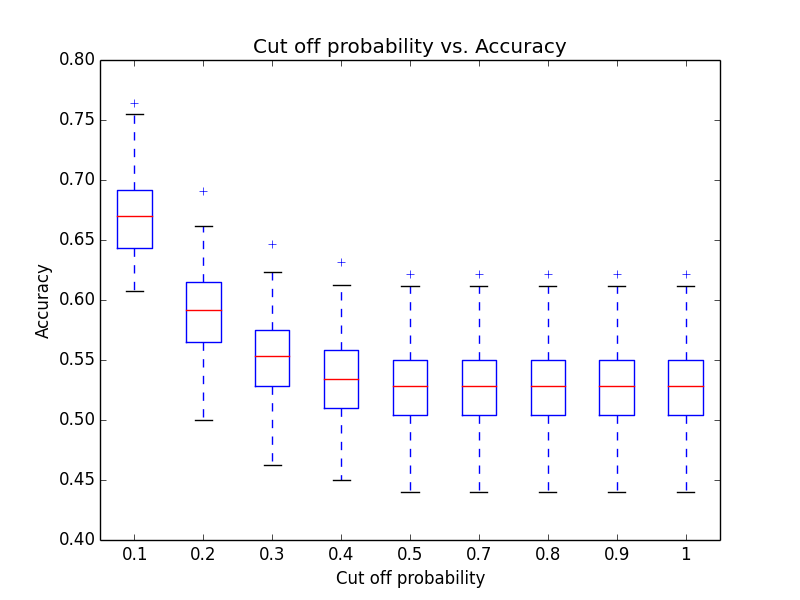
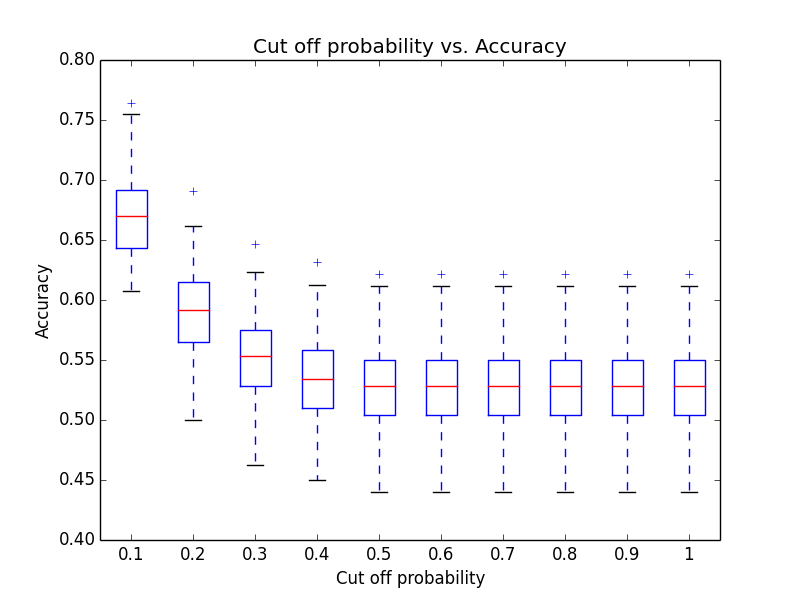
add customized look forward sequence len

diff --git a/accuracy/visualization/plots.py b/accuracy/visualization/plots.py
@@ -76,15 +76,15 @@ def runtime_plot(times, files_list_threshold, output_file_name, x_axis_tick_labe
     plt.title(graph_title)
     plt.xlabel(x_label)
     plt.ylabel("Run time (seconds)", color='r')
-    ax.set_xticklabels(x_axis_tick_labels)
     plt.tick_params('y',colors='r')
-
+    plt.xticks(range(0,len(x_axis_tick_labels)))
     ax2 = ax.twinx()
     ax2.plot(accuracy, 'b')
     ax2.plot(accuracy, 'bo')
     ax2.set_ylabel("Accuracy", color='b')
     ax2.tick_params('y',colors='b')
 
+    ax.set_xticklabels(x_axis_tick_labels)
     plt.savefig(output_file_name)
 
 
@@ -96,7 +96,7 @@ def runtime_plot(times, files_list_threshold, output_file_name, x_axis_tick_labe
 #x_axis_tick_labels = ['128', '256', '512']
 
 ###############################
-# ONE LAYER - DIFFERENT SIZE
+# ONE ITERATION - DIFFERENT SIZE
 ###############################
 files_list = \
 ['accuracy/visualization/report-data/varying-size-iter-100000/sherlock_holmes_1_128.csv',
@@ -120,7 +120,9 @@ x_axis_tick_labels = ['1-128', '1-256', '1-512', '2-128', '2-256', '2-512', '3-1
 # for i in range(1,10):
 #     boxplot(files_list, 'accuracy/visualization/accuracy_vs_size_sherlock_holmes_devil_foot' + str(i), x_axis_tick_labels, 'Number of layer - Layer size', 'Accuracy vs. Size', 40)
 
-# boxplot(files_list_devil_foot, 'accuracy/visualization/accuracy_vs_size_sherlock_holmes_devil_foot', x_axis_tick_labels, 'Approach', 'Accuracy vs. Size')
+# boxplot(files_list_devil_foot, 'accuracy/visualization/accuracy_vs_size_sherlock_holmes_devil_foot', x_axis_tick_labels, 'Number of layers - Layer size', 'Accuracy vs. Size')
+
+# boxplot(files_list, 'accuracy/visualization/accuracy_vs_size_sherlock_holmes', x_axis_tick_labels, 'Number of layers - Layer size', 'Accuracy vs. Size')
 
 
 #############################
@@ -137,13 +139,27 @@ threshold_tails_2 = [0.1,0.2,0.3,0.4,0.5,0.6,0.7,0.8,0.9,1]
 
 files_list_threshold = ['accuracy/visualization/report-data/changing-threshold/thresholds_'+str(tail)+'_.csv' for tail in threshold_tails_2]
 
-print (files_list_threshold)
-
 x_axis_tick_labels_threshold = [str(tail) for tail in threshold_tails_2]
 
 # runtime_plot(threshold_runtime_2, files_list_threshold, 'accuracy/visualization/runtime_vs_threshold_3_128_sherlock_on_harrypotter_large', x_axis_tick_labels_threshold, 'Cut-off probability', 'Run time vs. Cut-off probability')
 
-boxplot(files_list_threshold, 'accuracy/visualization/accuracy_vs_threshold_3_128_sherlock_on_harry_large', x_axis_tick_labels_threshold, 'Cut off probability', 'Cut off probability vs. Accuracy')
+# boxplot(files_list_threshold, 'accuracy/visualization/accuracy_vs_threshold_3_128_sherlock_on_harry_large', x_axis_tick_labels_threshold, 'Cut off probability', 'Cut off probability vs. Accuracy')
+
+
+#############################
+# CHANGING LOOKFORWAR LEN
+#############################
+
+lookforward_tails = [0,1,2,3,4,5,6,7,8,9,10,100]
+lookforward_runtime = [1475, 1746, 2525, 2751, 3007, 3800, 4017, 4710, 4956, 5172, 5800, 9190]
+
+files_list_lookforward = ['accuracy/visualization/report-data/changing-lookforwardlen/lookforward_len_'+str(tail)+'_.csv' for tail in lookforward_tails]
+
+x_axis_tick_labels_lookforward = [str(tail) for tail in lookforward_tails]
+x_axis_tick_labels_lookforward[-1] = 'All'
+runtime_plot(lookforward_runtime, files_list_lookforward, 'accuracy/visualization/runtime_vs_lookforwardlen_3_128_sherlock_on_harrypotter', x_axis_tick_labels_lookforward, 'Number of symbols to look forward ', 'Run time vs. Number of symbols to look forward ')
+
+# boxplot(files_list_lookforward, 'accuracy/visualization/accuracy_vs_lookforwardlen_3_128_sherlock_on_harry', x_axis_tick_labels_lookforward, 'Number of symbols to look forward', 'Number of symbols to look forward vs. Accuracy')
 
 
 #############################
@@ -162,8 +178,8 @@ boxplot(files_list_threshold, 'accuracy/visualization/accuracy_vs_threshold_3_12
 #############################
 
 def plot_changing_iteration_1_128(containing_folder, graph_name):
-    files_list = ['accuracy/visualization/report-data/' + containing_folder + '/sherlock_holmes_1_128_ITER_' + str(i*1000) +'.csv' for i in range(1,11)]
-    x_axis_tick_labels = [str(i*1000) for i in range(1,11)]
-    boxplot(files_list, 'accuracy/visualization/' + graph_name, x_axis_tick_labels, 'Number of training iterations', 'Accuracy vs. Training Iterations', 40)
+    files_list = ['accuracy/visualization/report-data/' + containing_folder + '/sherlock_holmes_1_128_ITER_' + str(i*10000) +'.csv' for i in range(1,11)]
+    x_axis_tick_labels = [str(i*10000) for i in range(1,11)]
+    boxplot(files_list, 'accuracy/visualization/' + graph_name, x_axis_tick_labels, 'Number of training iterations', 'Accuracy vs. Training Iterations')
 
-# plot_changing_iteration_1_128('changing-iteration-1-128', 'accuracy_vs_training_iteration_sherlock_holmes_1_128_less.png')
+# plot_changing_iteration_1_128('changing-iteration-1-128', 'accuracy_vs_training_iteration_sherlock_holmes_1_128.png')

diff --git a/processData/cleanText.py b/processData/cleanText.py
@@ -11,6 +11,10 @@ ALPHABET = '\n !"\'(),.0123456789:;?ABCDEFGHIJKLMNOPQRSTUVWXYZabcdefghijklmnopqr
 
 ALPHABET_MINIMIZE = ' \'!,.:?0123456789ABCDEFGHIJKLMNOPQRSTUVWXYZabcdefghijklmnopqrstuvwxyz'
 
+ALPHABET_CHAR_AND_PUNCS = '\n !,.:?ABCDEFGHIJKLMNOPQRSTUVWXYZabcdefghijklmnopqrstuvwxyz'
+
+PYTHON_ALPHABET = "\n !\"#$%&'()*+,-./0123456789:;<=>?@ABCDEFGHIJKLMNOPQRSTUVWXYZ[\]^_`abcdefghijklmnopqrstuvwxyz{|}~"
+
 VIETNAMESE_ALPHABET_MINIMIZE = '\'",.:;?abcdefghijklmnopqrstuvwxyz àáâãèéêìíðòóôõùúýăđĩũơưạảấầẩẫậắằẳẵặẹẻẽếềểễệỉịọỏốồổỗộớờởỡợụủứừửữựỳỵỷỹ\n'.decode('utf8')
 
 def cleantext(input_file_name, alphabet):
@@ -51,6 +55,20 @@ def cleantextLower(input_file_name, alphabet):
         with open(output_file_name, "w") as text_file:
             text_file.write(data.encode('utf8'))
 
+def cleantextPython(input_file_name, alphabet):
+
+    output_file_name = input_file_name[:-4] + '_cleaned.txt'
+
+    with open(input_file_name) as input_file:
+        data = input_file.read().decode('utf8')
+
+        for char in ''.join(set(data)):
+            if char not in alphabet:
+                data = data.replace(char, '')
+
+        with open(output_file_name, "w") as text_file:
+            text_file.write(data.encode('utf8'))
+
 def text_stats(input_file_name):
 
     with open(input_file_name, ) as input_file:
@@ -58,13 +76,16 @@ def text_stats(input_file_name):
         print ("Text size: ")
         print len(all_text)
         print ("No. unique symbols")
-        all_chars = ''.join(set(all_text)).lower()
-        all_chars = ''.join(set(all_chars))
+        all_chars = ''.join(set(all_text))
+        # all_chars = ''.join(set(all_chars))
         print (len(all_chars))
         print (''.join(sorted(all_chars)))
 
 
-# text_stats("data/Vietnamese_GoneWithTheWind.txt")
-# cleantextLower("data/Vietnamese_GoneWithTheWind.txt", VIETNAMESE_ALPHABET_MINIMIZE)
+text_stats("data/indonesian_cleaned.txt")
 # text_stats("accuracy/rawTestFiles/harrypotter_onefile/harrypotter2.txt")
-text_stats("accuracy/rawTestFiles/ntu_news_matched.txt")
+# text_stats("accuracy/rawTestFiles/ntu_news_matched.txt")
+# cleantextPython("data/python_code.txt", PYTHON_ALPHABET)
+# text_stats("data/python_code_cleaned.txt")
+
+# cleantext("data/indonesian.txt", ALPHABET_CHAR_AND_PUNCS)
